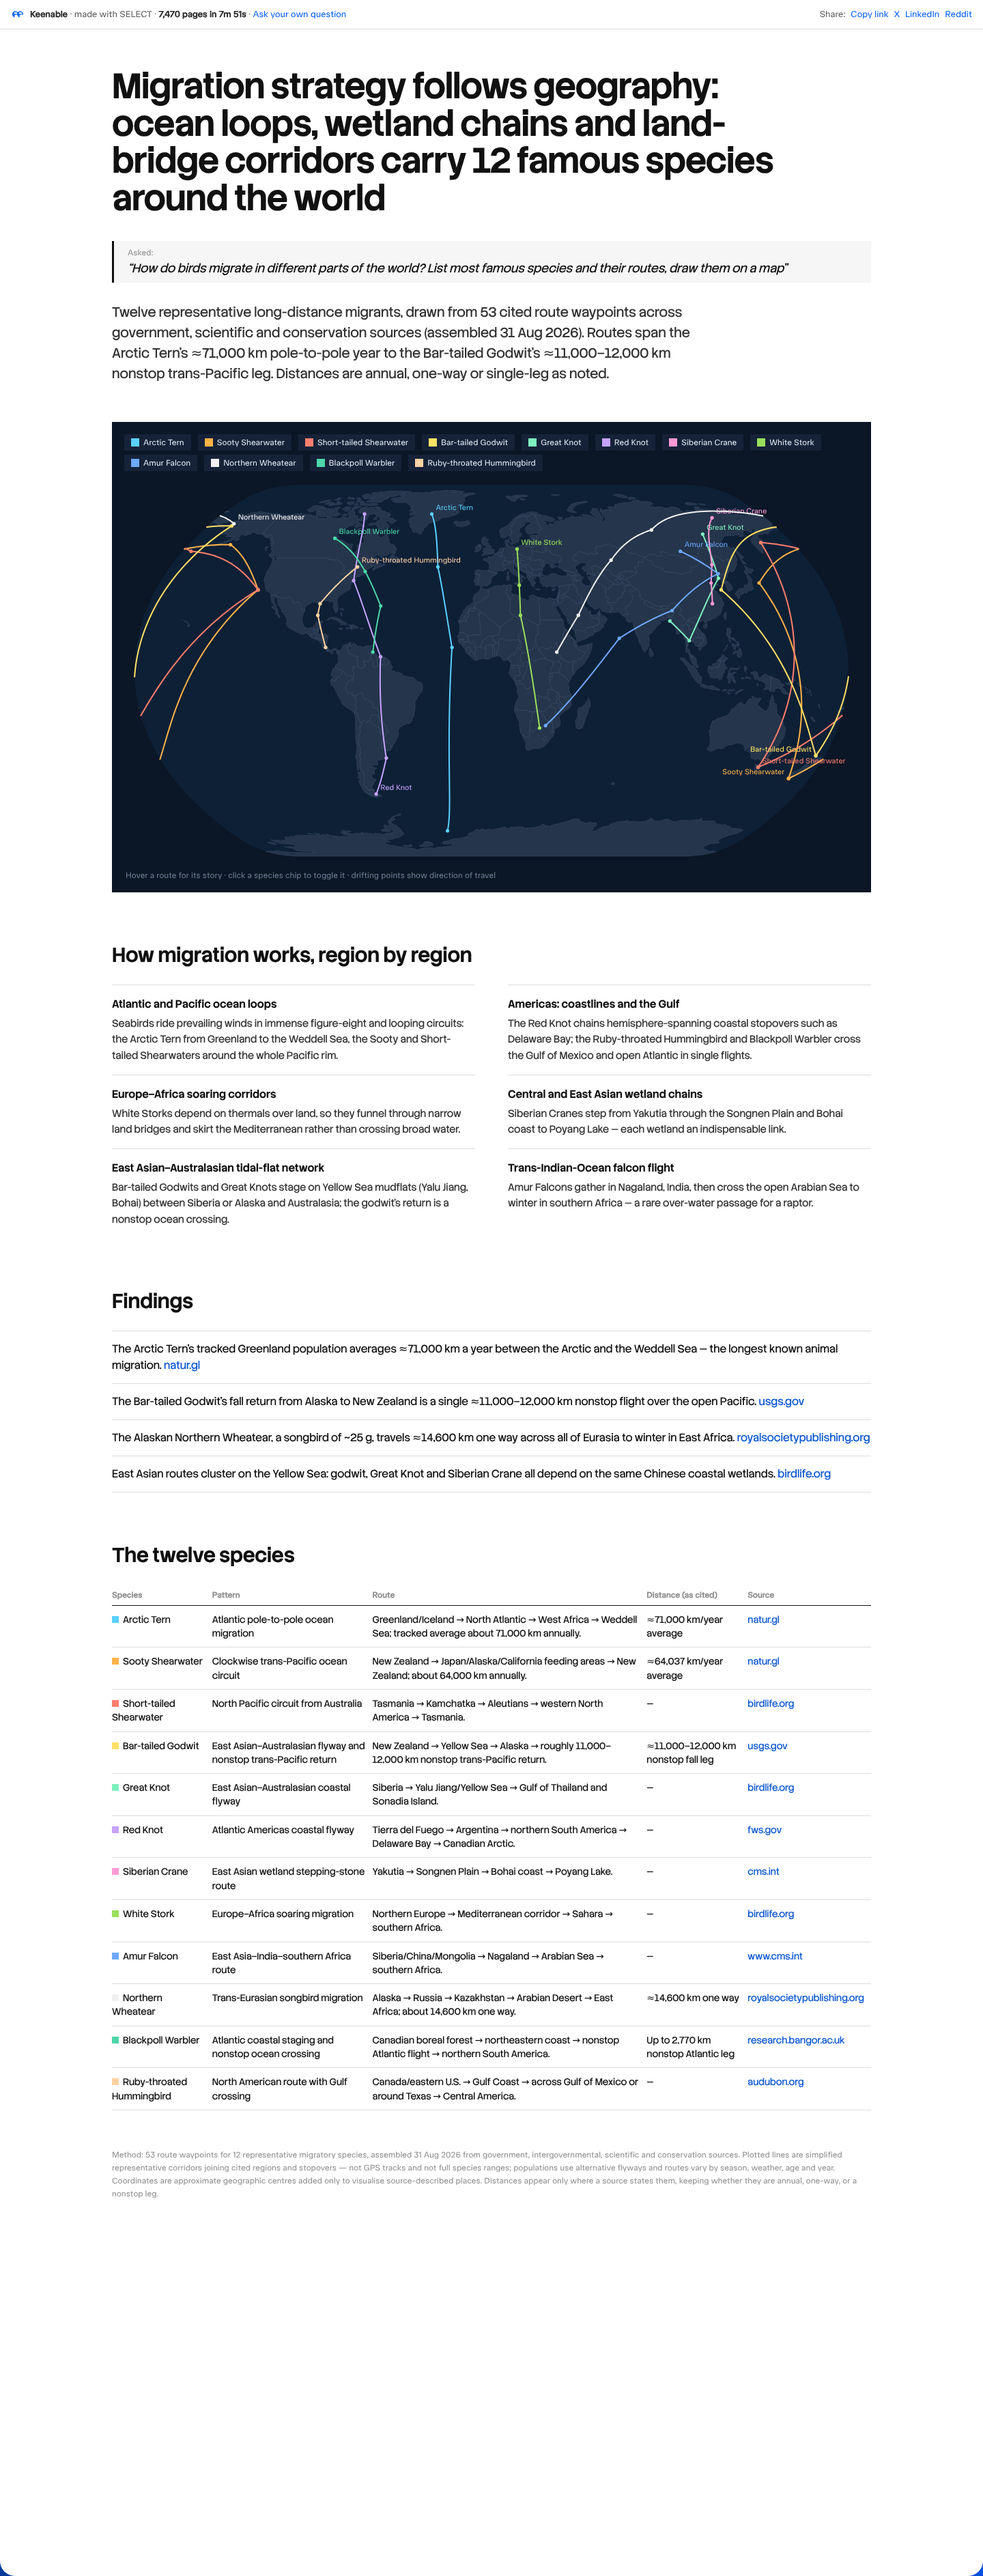
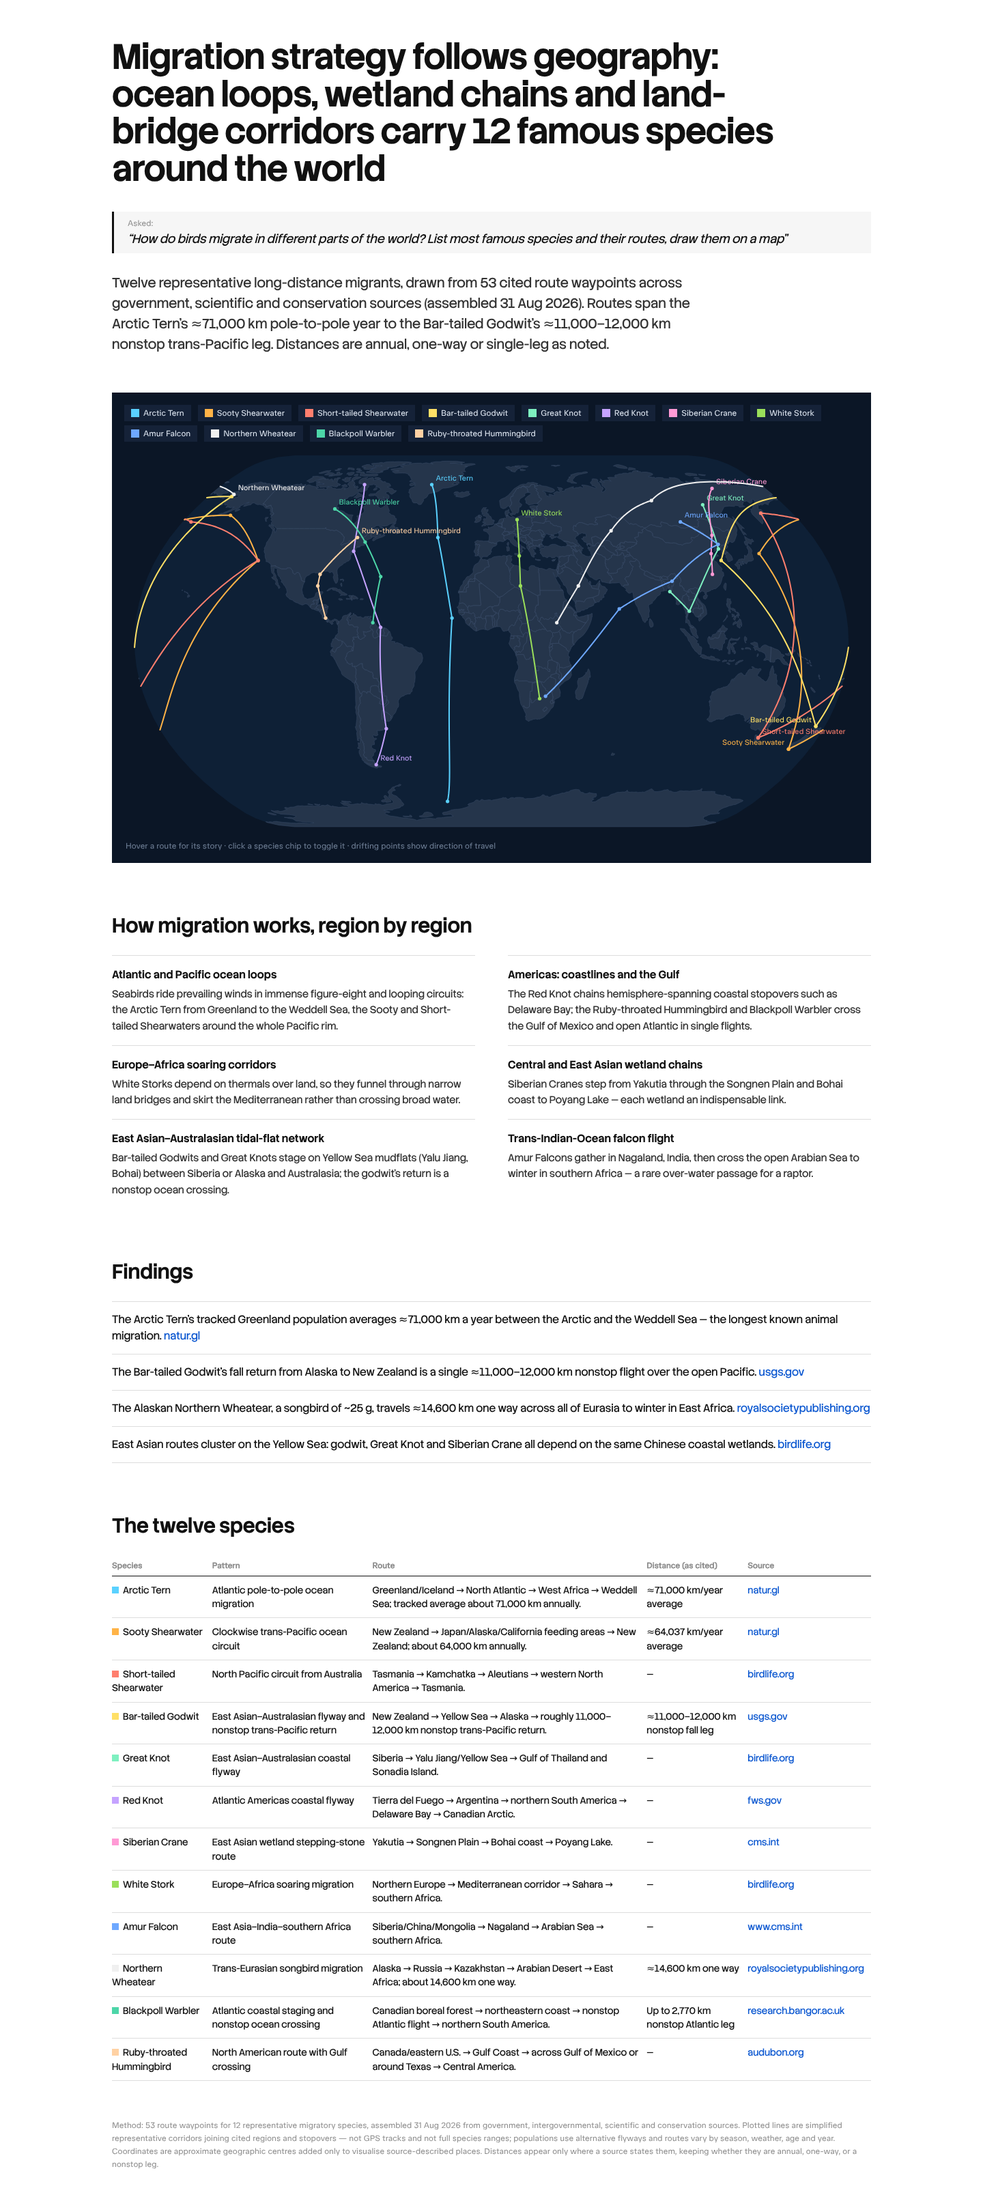
Build the site in CI from main
scripts/build_site.py is now committed; the deploy workflow builds
_site/ on every push to main and publishes it to Pages. Previews are
shot from the stored report HTML, with no server header. Index cards
show only the screenshot, links, and run stats.

diff --git a/scripts/build_site.py b/scripts/build_site.py
@@ -1,0 +1,256 @@
+"""Build the GitHub Pages site in _site/ from reports/ and site_assets/.
+
+For each reports/<slug>/ directory (report.html, trajectory.json, meta.json,
+optional preview.png) the script writes _site/<slug>/report.html (verbatim
+copy) and _site/<slug>/trajectory.html (rendered transcript with every
+query), then _site/index.html with one card per report. Brand fonts and
+logos come from site_assets/. CI runs this on every push to main and
+deploys _site/ to GitHub Pages.
+
+Usage: python3 scripts/build_site.py
+"""
+
+from __future__ import annotations
+
+import html
+import json
+import shutil
+from pathlib import Path
+
+ROOT = Path(__file__).resolve().parent.parent
+REPORTS = ROOT / "reports"
+ASSETS = ROOT / "site_assets"
+DOCS = ROOT / "_site"
+
+GITHUB_URL = "https://github.com/keenableai/select-showcase"
+
+HLJS_JS = "https://cdnjs.cloudflare.com/ajax/libs/highlight.js/11.11.1/highlight.min.js"
+
+# Palette and type roles from keenable-webql/docs/report-style.md.
+PAGE_CSS = """
+*{box-sizing:border-box;margin:0;padding:0}
+body{background:#fff;color:#2A2A2A;font-family:'Stack Sans Headline',system-ui,sans-serif;
+  font-weight:300;font-size:16px;line-height:1.5;letter-spacing:.010em}
+.wrap{max-width:1100px;margin:0 auto;padding:0 24px 64px}
+a{color:#0A57E8;text-decoration:none}
+a:hover{text-decoration:underline}
+header.site{display:flex;align-items:center;gap:14px;padding:22px 0;
+  border-bottom:1px solid #DDDDDD;margin-bottom:44px}
+header.site img{height:28px;display:block}
+header.site .name{font-weight:400;font-size:18px;color:#2A2A2A}
+header.site .spacer{flex:1}
+header.site a.gh{font-family:'TASA Orbiter',system-ui;font-size:12px;
+  letter-spacing:-.004em;color:#646464}
+h1{font-weight:400;font-size:52px;line-height:.9;letter-spacing:0;
+  margin-bottom:20px;max-width:900px}
+.sub{color:#646464;margin-bottom:44px;max-width:700px}
+.label{font-family:'TASA Orbiter',system-ui;font-size:12px;letter-spacing:-.004em;
+  color:#8D8D8D;text-transform:none}
+.cards{display:grid;grid-template-columns:repeat(auto-fill,minmax(320px,1fr));gap:24px}
+.card{background:#fff;border:1px solid #DDDDDD;padding:0 0 20px;
+  display:flex;flex-direction:column}
+.card .shot{display:block;width:100%;height:220px;object-fit:cover;object-position:top;
+  border-bottom:1px solid #DDDDDD;background:#F9F9F9}
+.card .noshot{height:220px;border-bottom:1px solid #DDDDDD;background:#F9F9F9}
+.card .links{margin:16px 20px 10px}
+.card .links a{margin-right:18px}
+.card .meta{margin:0 20px}
+.msg{border:1px solid #DDDDDD;margin:0 0 -1px}
+.msg-head{padding:8px 16px;border-bottom:1px solid #DDDDDD;background:#F9F9F9}
+.msg-user .msg-head{background:#DAEBFF}
+.msg-body{padding:16px}
+.msg-body p{white-space:pre-wrap;margin:0 0 10px}
+.msg-body p:last-child{margin-bottom:0}
+.tool-name{margin:0 0 8px}
+pre{background:#F9F9F9;border:1px solid #DDDDDD;padding:14px 16px;overflow-x:auto;
+  font-size:13px;line-height:1.5;margin:0 0 10px}
+pre:last-child{margin-bottom:0}
+pre code{font-family:ui-monospace,SFMono-Regular,Menlo,Consolas,monospace;background:none;padding:0}
+details summary{cursor:pointer;padding:10px 16px}
+details pre{margin:0;border:0;border-top:1px solid #DDDDDD;max-height:420px;overflow:auto}
+footer.site{margin-top:64px;padding-top:20px;border-top:1px solid #DDDDDD;
+  display:flex;align-items:center;gap:20px}
+footer.site img{height:16px;display:block}
+footer.site a{font-family:'TASA Orbiter',system-ui;font-size:12px;
+  letter-spacing:-.004em;color:#646464}
+.hljs-keyword{color:#005CFF}
+.hljs-string{color:#646464}
+.hljs-number{color:#F25F34}
+.hljs-comment{color:#8D8D8D}
+.hljs-operator,.hljs-punctuation{color:#2A2A2A}
+"""
+
+
+def esc(text: str) -> str:
+    return html.escape(text, quote=False)
+
+
+def render_assistant(message: dict) -> str:
+    parts = []
+    for call in message.get("tool_calls") or []:
+        fn = call.get("function", {})
+        parts.append(
+            f'<p class="tool-name label">tool call — {esc(fn.get("name", "?"))}</p>'
+        )
+        try:
+            args = json.loads(fn.get("arguments", "{}"))
+        except json.JSONDecodeError:
+            args = None
+        if isinstance(args, dict) and "query" in args:
+            parts.append(f'<pre><code class="language-sql">{esc(args["query"])}</code></pre>')
+            extras = {k: v for k, v in args.items() if k != "query"}
+            if extras:
+                parts.append(f"<pre>{esc(json.dumps(extras, indent=1))}</pre>")
+        else:
+            parts.append(f"<pre>{esc(fn.get('arguments', ''))}</pre>")
+    content = message.get("content")
+    if content:
+        parts.append(f"<p>{esc(content)}</p>")
+    return "".join(parts)
+
+
+def render_message(message: dict) -> str:
+    role = message.get("role", "?")
+    if role == "tool":
+        body = (
+            f'<details><summary class="label">tool result'
+            f" ({len(message.get('content') or '')} chars)</summary>"
+            f"<pre>{esc(message.get('content') or '')}</pre></details>"
+        )
+        return f'<div class="msg msg-tool">{body}</div>'
+    body = render_assistant(message) if role == "assistant" else (
+        f"<p>{esc(message.get('content') or '')}</p>"
+    )
+    return (
+        f'<div class="msg msg-{esc(role)}"><div class="msg-head label">{esc(role)}</div>'
+        f'<div class="msg-body">{body}</div></div>'
+    )
+
+
+def page(title: str, body: str, root: str = "", scripts: str = "") -> str:
+    return (
+        '<!doctype html>\n<html lang="en"><head><meta charset="utf-8">'
+        '<meta name="viewport" content="width=device-width,initial-scale=1">'
+        f"<title>{esc(title)}</title>"
+        f'<link rel="icon" href="{root}keenable-mark.svg" type="image/svg+xml">'
+        f'<link rel="stylesheet" href="{root}fonts/brand.css">'
+        f"<style>{PAGE_CSS}</style></head><body>"
+        f'<div class="wrap"><header class="site">'
+        f'<a href="{root}index.html"><img src="{root}keenable-mark.svg" alt="Keenable"></a>'
+        f'<span class="name">SELECT showcase</span><span class="spacer"></span>'
+        f'<a class="gh" href="{GITHUB_URL}">GitHub</a></header>'
+        f"{body}"
+        f'<footer class="site"><a href="https://keenable.ai">'
+        f'<img src="{root}keenable-wordmark-footer.svg" alt="Keenable"></a>'
+        f'<a href="{GITHUB_URL}">Source and data on GitHub</a></footer>'
+        f"</div>{scripts}</body></html>\n"
+    )
+
+
+def brand_css() -> str:
+    latin = (
+        "U+0000-00FF, U+0131, U+0152-0153, U+02BB-02BC, U+02C6, U+02DA, U+02DC, U+0304,"
+        " U+0308, U+0329, U+2000-206F, U+20AC, U+2122, U+2191, U+2193, U+2212, U+2215,"
+        " U+FEFF, U+FFFD"
+    )
+    latin_ext = (
+        "U+0100-02BA, U+02BD-02C5, U+02C7-02CC, U+02CE-02D7, U+02DD-02FF, U+0304, U+0308,"
+        " U+0329, U+1D00-1DBF, U+1E00-1E9F, U+1EF2-1EFF, U+2020, U+20A0-20AB, U+20AD-20C0,"
+        " U+2113, U+2C60-2C7F, U+A720-A7FF"
+    )
+    faces = (
+        ("Stack Sans Headline", "stack-sans-headline-latin.woff2", latin, "200 700"),
+        ("Stack Sans Headline", "stack-sans-headline-latin-ext.woff2", latin_ext, "200 700"),
+        ("TASA Orbiter", "tasa-orbiter-latin.woff2", latin, "400 500"),
+        ("TASA Orbiter", "tasa-orbiter-latin-ext.woff2", latin_ext, "400 500"),
+    )
+    return "".join(
+        "@font-face{"
+        f"font-family:'{family}';font-style:normal;font-weight:{weights};"
+        f"font-display:swap;src:url({file}) format('woff2');unicode-range:{ranges}"
+        "}"
+        for family, file, ranges, weights in faces
+    )
+
+
+def copy_assets() -> None:
+    fonts = DOCS / "fonts"
+    fonts.mkdir(parents=True, exist_ok=True)
+    for item in (ASSETS / "fonts").iterdir():
+        shutil.copyfile(item, fonts / item.name)
+    (fonts / "brand.css").write_text(brand_css())
+    for name in ("keenable-mark.svg", "keenable-wordmark-footer.svg"):
+        shutil.copyfile(ASSETS / name, DOCS / name)
+
+
+def build_report(slug: str) -> dict:
+    src = REPORTS / slug
+    meta = json.loads((src / "meta.json").read_text())
+    transcript = json.loads((src / "trajectory.json").read_text()) or []
+
+    out = DOCS / slug
+    out.mkdir(parents=True, exist_ok=True)
+    shutil.copyfile(src / "report.html", out / "report.html")
+    has_preview = (src / "preview.png").exists()
+    if has_preview:
+        shutil.copyfile(src / "preview.png", out / "preview.png")
+
+    title = meta["artifact"]["title"]
+    n_queries = sum(len(m.get("tool_calls") or []) for m in transcript)
+    body = (
+        f"<h1>{esc(title)}</h1>"
+        f'<p class="sub label">Trajectory — {len(transcript)} messages, {n_queries} tool calls'
+        f' &middot; <a href="report.html">report</a>'
+        f' &middot; <a href="../index.html">all reports</a></p>'
+        + "".join(render_message(m) for m in transcript)
+    )
+    scripts = f'<script src="{HLJS_JS}"></script><script>hljs.highlightAll()</script>'
+    (out / "trajectory.html").write_text(
+        page(f"{title} — trajectory", body, root="../", scripts=scripts)
+    )
+    return {
+        "slug": slug,
+        "created_at": meta["artifact"]["created_at"][:10],
+        "n_messages": len(transcript),
+        "n_queries": n_queries,
+        "has_preview": has_preview,
+    }
+
+
+def build_index(entries: list[dict]) -> None:
+    cards = []
+    for e in sorted(entries, key=lambda e: e["created_at"], reverse=True):
+        shot = (
+            f'<a href="{e["slug"]}/report.html">'
+            f'<img class="shot" src="{e["slug"]}/preview.png" alt=""></a>'
+            if e["has_preview"]
+            else '<div class="noshot"></div>'
+        )
+        cards.append(
+            f'<div class="card">{shot}'
+            f'<p class="links"><a href="{e["slug"]}/report.html">Report</a>'
+            f'<a href="{e["slug"]}/trajectory.html">Trajectory</a></p>'
+            f'<p class="meta label">{e["created_at"]} &middot; {e["n_messages"]} messages'
+            f' &middot; {e["n_queries"]} queries</p></div>'
+        )
+    body = (
+        "<h1>Selected reports with their trajectories</h1>"
+        '<p class="sub">WebQL reports built by the SELECT agent, each with the full'
+        " agent run behind it: every query, every tool result.</p>"
+        f'<div class="cards">{"".join(cards)}</div>'
+    )
+    (DOCS / "index.html").write_text(page("SELECT showcase", body))
+
+
+def main() -> None:
+    if DOCS.exists():
+        shutil.rmtree(DOCS)
+    copy_assets()
+    slugs = sorted(p.name for p in REPORTS.iterdir() if (p / "meta.json").exists())
+    entries = [build_report(slug) for slug in slugs]
+    build_index(entries)
+    print(f"Built _site/ with {len(entries)} report(s): {', '.join(e['slug'] for e in entries)}")
+
+
+if __name__ == "__main__":
+    main()

diff --git a/README.md b/README.md
@@ -13,10 +13,10 @@ A collection of selected WebQL reports with their full agent trajectories.
     full rows and notes. Stored in Git LFS.
   - `preview.png` — a full-page screenshot of the report (og-render).
 - `site_assets/` — brand fonts (OFL) and logos for the site pages.
-The GitHub Pages site is generated from `reports/` and lives on the
-`gh-pages` branch: an index page plus, per example, the report and a
-rendered trajectory. A push to `gh-pages` triggers the deploy workflow
-on that branch, which publishes the site.
+`scripts/build_site.py` generates the GitHub Pages site from `reports/`:
+an index page plus, per example, the report and a rendered trajectory.
+The deploy workflow runs it on every push to main and publishes the
+result to GitHub Pages.
 
 ## Site
 
